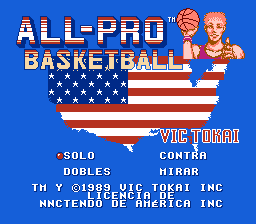
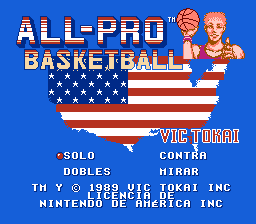
Fix all star title

Changed region(s): [[0.4375, 0.8125, 0.9062, 0.875], [0.3125, 0.8125, 0.375, 0.875], [0.1875, 0.875, 0.25, 0.9375]]

diff --git a/index.html b/index.html
@@ -80,8 +80,8 @@
 		<script type="text/javascript" language="javascript" src="js/dataTables.responsive.min.js"></script>
 		<script type="text/javascript" language="javascript" src="js/jquery.modal.min.js"></script>
 		<script type="text/javascript" language="javascript" src="js/fresco.min.js"></script>
-		<script type="text/javascript" language="javascript" src="list_archived.js?v=20250412"></script>
-		<script type="text/javascript" language="javascript" src="list.js?v=20250412"></script>
+		<script type="text/javascript" language="javascript" src="list_archived.js?v=20250413"></script>
+		<script type="text/javascript" language="javascript" src="list.js?v=20250413"></script>
 		<script type="text/javascript" language="javascript" src="js/spanish.js"></script>
 	</footer>
 </html>

diff --git a/list.js b/list.js
@@ -22229,14 +22229,14 @@ var tableData2= [ {
   "genre" : "Deportes",
   "releaseDate" : "2025/04/12",
   "gameDate" : "",
-  "version" : "1.0",
+  "version" : "1.1",
   "downloads" : "0",
   "lang" : "Spanish",
   "path" : "hacks/20250412/allprobasketballnes",
   "imagesFilenames" : [ "allprobasketballnes_0.png", "allprobasketballnes_1.png", "allprobasketballnes_2.png", "allprobasketballnes_3.png", "allprobasketballnes_4.png" ],
   "readmeFilename" : "allprobasketballnes_readme.txt",
   "patchFilename" : "allprobasketballnes.zip",
-  "notes" : ""
+  "notes" : "V1.1: -Arreglada pantalla de título"
 },
 {
   "complete" : 1,
